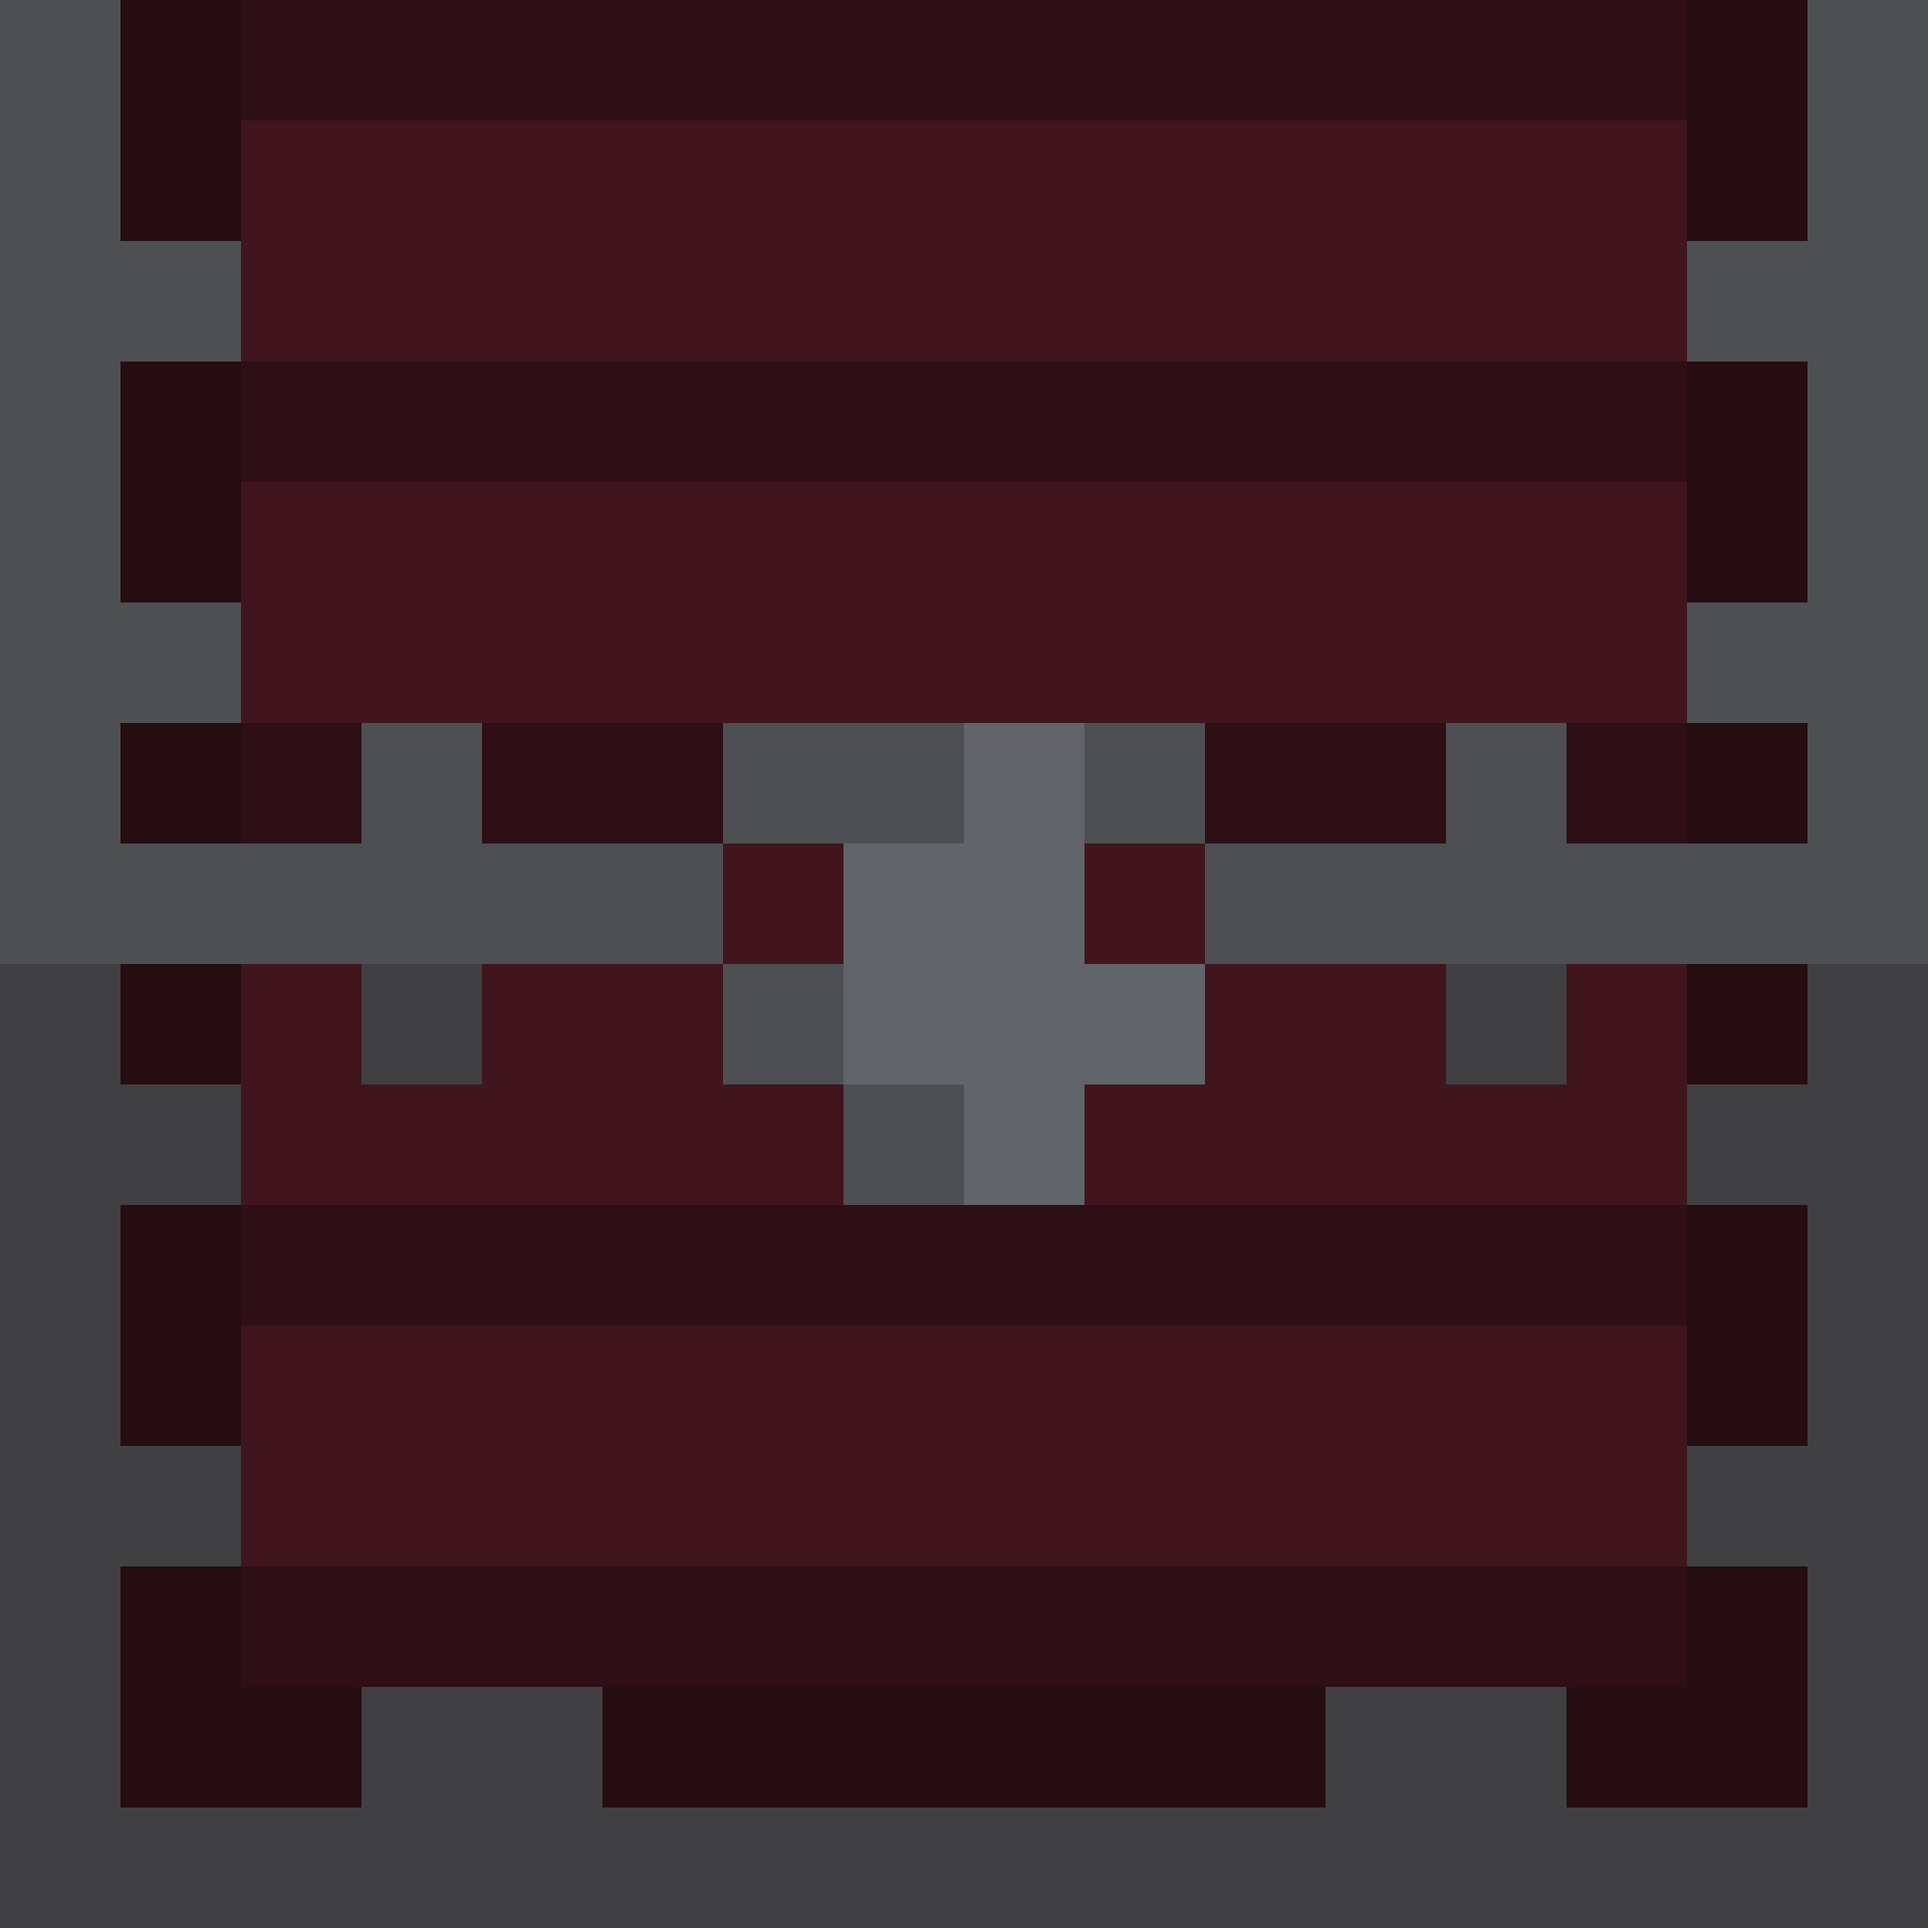
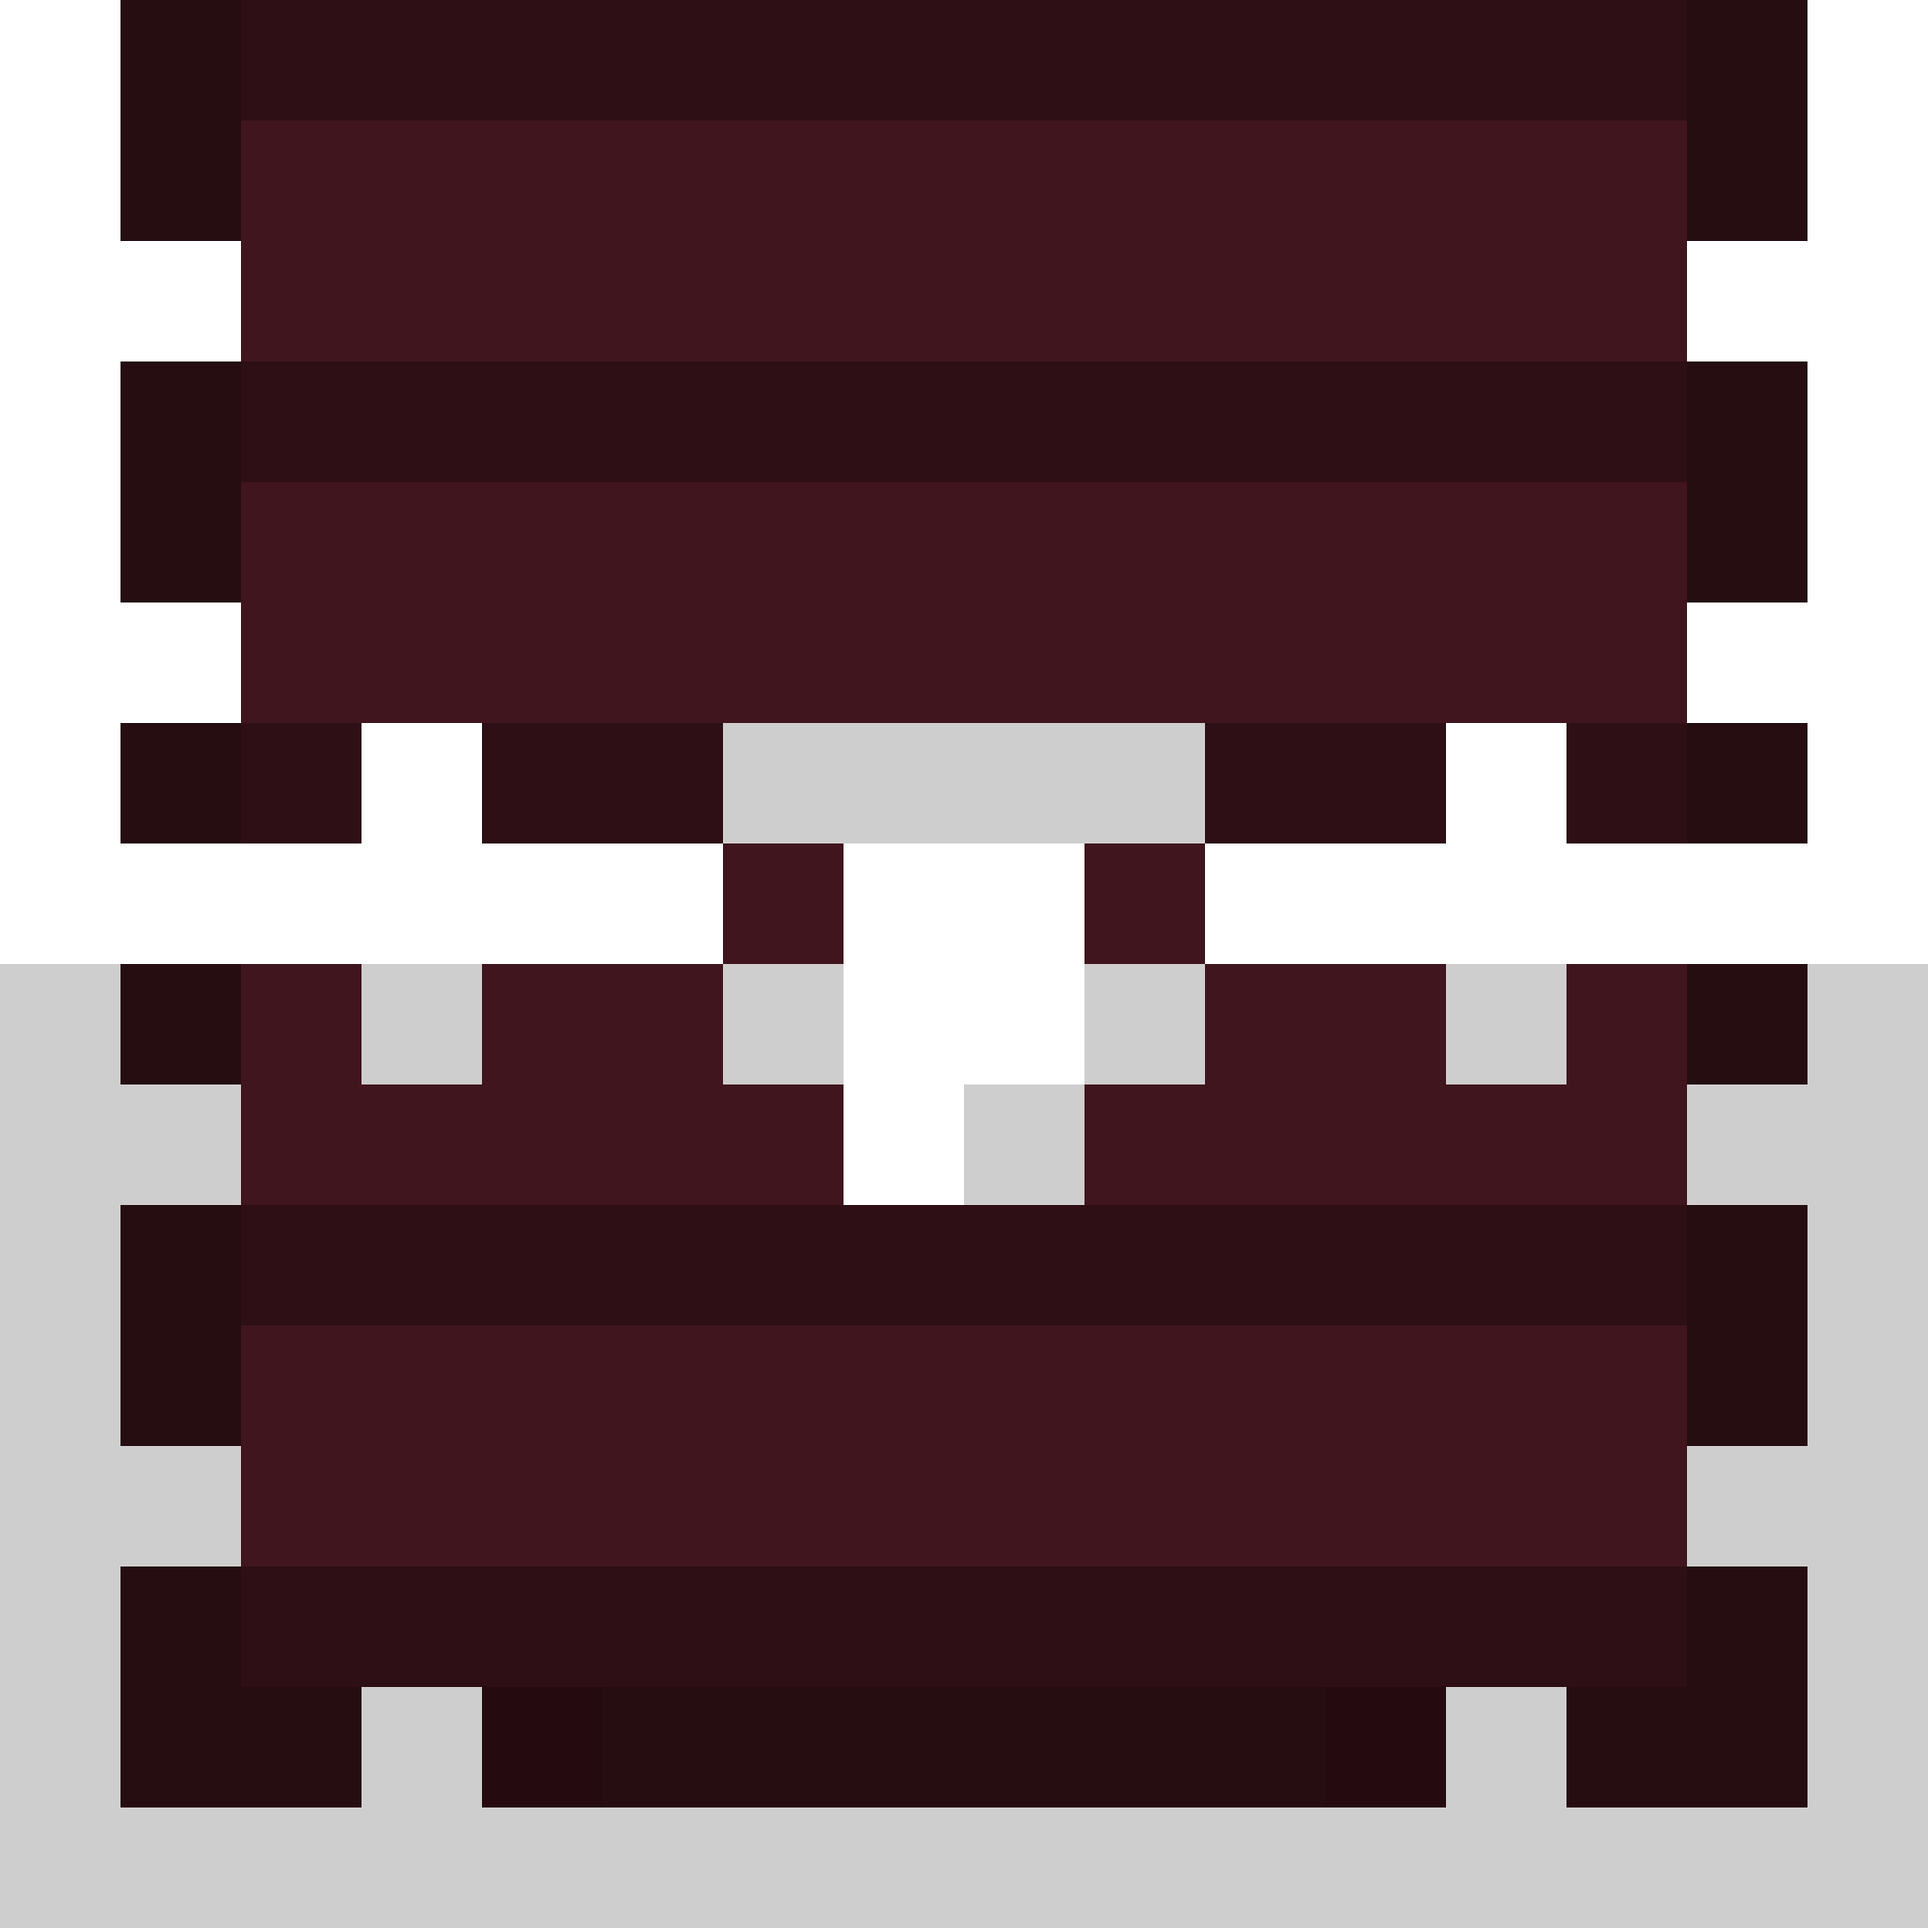
-Assets aangepast -Congratualation scherm gecenterd

diff --git a/src/Main/UserInterface.java b/src/Main/UserInterface.java
@@ -58,7 +58,7 @@ public class UserInterface {
 
             g2.setFont(arial_80B);
             g2.setColor(Color.white);
-            g2.drawString("Congratualations!", getXCenterText("Congratualations!"),
+            g2.drawString("Congratualations!", getXCenterText("Congratualations!")/5,
                     gp.screenHeight/2 + (gp.tileSize * 3));
 
             gp.gameThread = null;
@@ -125,8 +125,8 @@ public class UserInterface {
 
     public void drawDialogueScreen() {
         // WINDOW
-        int x = gp.tileSize;
-        int y = gp.tileSize * 7;
+        int x = gp.tileSize/2;
+        int y = gp.tileSize * 7 + gp.tileSize/2;
         int width = gp.screenWidth - (gp.tileSize * 2);
         int height = gp.tileSize*4;
         drawSubWindow(x, y, width, height);

diff --git a/src/objects/OBJ_KeyY.java b/src/objects/OBJ_KeyY.java
@@ -4,6 +4,7 @@ import Main.GamePanel;
 
 import javax.imageio.ImageIO;
 import java.io.IOException;
+import java.util.Objects;
 
 public class OBJ_KeyY extends SuperObject {
 
@@ -16,7 +17,7 @@ public class OBJ_KeyY extends SuperObject {
         this.gp = gp;
         name = "KeyY";
         try {
-            image = ImageIO.read(getClass().getClassLoader().getResourceAsStream("objects/KeyY.png"));
+            image = ImageIO.read(Objects.requireNonNull(getClass().getClassLoader().getResourceAsStream("objects/KeyY.png")));
             uTool.scaleImage(image, gp.tileSize, gp.tileSize);
 
         } catch (IOException e) {

diff --git a/src/objects/OBJ_DoorB.java b/src/objects/OBJ_DoorB.java
@@ -4,6 +4,7 @@ import Main.GamePanel;
 
 import javax.imageio.ImageIO;
 import java.io.IOException;
+import java.util.Objects;
 
 public class OBJ_DoorB extends SuperObject {
 
@@ -15,7 +16,7 @@ public class OBJ_DoorB extends SuperObject {
 
         name = "DoorB";
         try {
-            image = ImageIO.read(getClass().getClassLoader().getResourceAsStream("objects/DoorB.png"));
+            image = ImageIO.read(Objects.requireNonNull(getClass().getClassLoader().getResourceAsStream("objects/DoorB.png")));
             uTool.scaleImage(image, gp.tileSize, gp.tileSize);
 
         } catch (IOException e) {

diff --git a/src/objects/OBJ_DoorY.java b/src/objects/OBJ_DoorY.java
@@ -4,6 +4,7 @@ import Main.GamePanel;
 
 import javax.imageio.ImageIO;
 import java.io.IOException;
+import java.util.Objects;
 
 public class OBJ_DoorY extends SuperObject {
 
@@ -15,7 +16,7 @@ public class OBJ_DoorY extends SuperObject {
 
         name = "DoorY";
         try {
-            image = ImageIO.read(getClass().getClassLoader().getResourceAsStream("objects/DoorY.png"));
+            image = ImageIO.read(Objects.requireNonNull(getClass().getClassLoader().getResourceAsStream("objects/DoorY.png")));
             uTool.scaleImage(image, gp.tileSize, gp.tileSize);
 
         } catch (IOException e) {

diff --git a/src/objects/OBJ_KeyB.java b/src/objects/OBJ_KeyB.java
@@ -4,6 +4,7 @@ import Main.GamePanel;
 
 import javax.imageio.ImageIO;
 import java.io.IOException;
+import java.util.Objects;
 
 public class OBJ_KeyB extends SuperObject {
 
@@ -15,7 +16,7 @@ public class OBJ_KeyB extends SuperObject {
 
         name = "KeyB";
         try {
-            image = ImageIO.read(getClass().getClassLoader().getResourceAsStream("objects/KeyB.png"));
+            image = ImageIO.read(Objects.requireNonNull(getClass().getClassLoader().getResourceAsStream("objects/KeyB.png")));
             uTool.scaleImage(image, gp.tileSize, gp.tileSize);
 
         } catch (IOException e) {

diff --git a/src/objects/OBJ_DoorG.java b/src/objects/OBJ_DoorG.java
@@ -16,7 +16,7 @@ public class OBJ_DoorG extends SuperObject {
 
         name = "DoorG";
         try {
-            image = ImageIO.read(Objects.requireNonNull(getClass().getClassLoader().getResourceAsStream("objects/DoorR.png")));
+            image = ImageIO.read(Objects.requireNonNull(getClass().getClassLoader().getResourceAsStream("objects/DoorG.png")));
             uTool.scaleImage(image, gp.tileSize, gp.tileSize);
 
         } catch (IOException e) {

diff --git a/src/objects/OBJ_KeyG.java b/src/objects/OBJ_KeyG.java
@@ -16,7 +16,7 @@ public class OBJ_KeyG extends SuperObject {
 
         name = "KeyG";
         try {
-            image = ImageIO.read(Objects.requireNonNull(getClass().getClassLoader().getResourceAsStream("objects/KeyBR.png")));
+            image = ImageIO.read(Objects.requireNonNull(getClass().getClassLoader().getResourceAsStream("objects/KeyG.png")));
             uTool.scaleImage(image, gp.tileSize, gp.tileSize);
 
         } catch (IOException e) {

diff --git a/src/objects/OBJ_KeyR.java b/src/objects/OBJ_KeyR.java
@@ -15,7 +15,7 @@ public class OBJ_KeyR extends SuperObject {
 
         name = "KeyR";
         try {
-            image = ImageIO.read(Objects.requireNonNull(getClass().getClassLoader().getResourceAsStream("objects/Key.png")));
+            image = ImageIO.read(Objects.requireNonNull(getClass().getClassLoader().getResourceAsStream("objects/KeyR.png")));
             uTool.scaleImage(image, gp.tileSize, gp.tileSize);
 
         } catch (IOException e) {

diff --git a/src/Entity/Player.java b/src/Entity/Player.java
@@ -17,10 +17,10 @@ public class Player extends Entity {
     public final int screenY;
 
     // Objecten die de speler heeft kan verbeterd worden
-    public int hasKeyG = 0;
+    public int hasKeyG = 1;
     public int hasKeyY = 0;
     public int hasKeyB = 0;
-    public int hasKeyR = 0;
+    public int hasKeyR = 1;
     public int coins = 0;
 
     public Player(GamePanel gp, KeyHandler keyH) {
